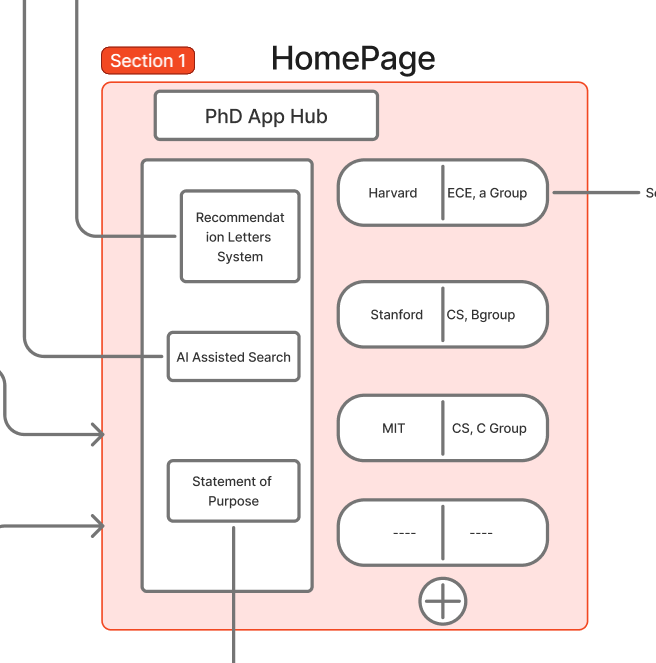
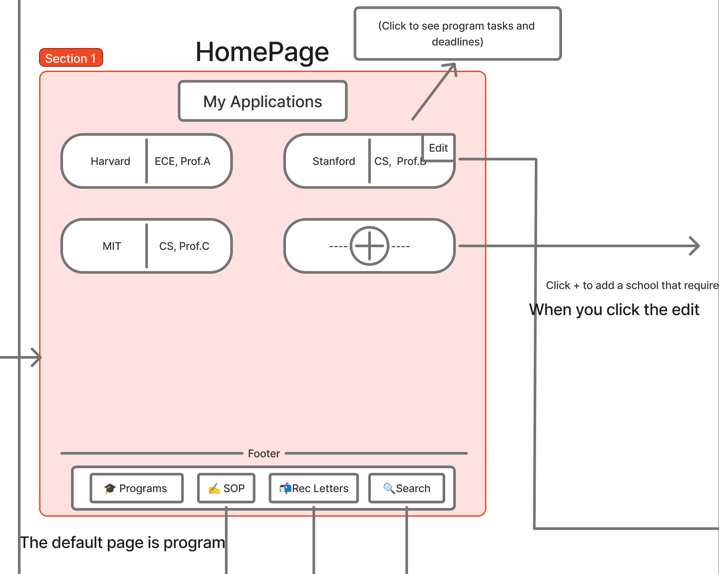
The mockup modify, to meet all the requiremnts in slack

diff --git a/README.md b/README.md
@@ -5,7 +5,7 @@ CSCI 5117, Fall 2025, [assignment description](https://canvas.umn.edu/courses/51
 ## App Info:
 
 * Team Name: http-200
-* App Name: 
+* App Name: PhDHub
 * App Link: <https://TODO.com/>
 
 ### Students
@@ -38,29 +38,109 @@ Which (if any) progressive web app feature(s) does your app support?
 <img src="Mock-ups/Mockup.png" alt="Overall Mockup" width="800"/>
 *Complete PhD application management system design overview, integrating all application components and information aggregation features*
 
+
+
+### Splash Page
+
+<img src="Mock-ups/Log.png" alt="Log" width="800"/>
+*Application timeline and activity log tracking all PhD application progress, deadlines, submissions, and important milestones*
+
+Added a simple splash / landing screen before Login/Setup
+
+-  Gives users a clearer starting point
+-  Makes the flow feel more intentional
+
+
+
 ### Home Page
+
 <img src="Mock-ups/HomePage.png" alt="Home Page" width="800"/>
 *Dashboard showing application overview, pending tasks, and quick access to all PhD application management features*
+
+-  Cleaned up the layout so it feels more organized
+-  Replaced the old left-side column with a footer navigation bar
+   -  Helps users understand how to move between pages
+-  Added small labels so the purpose of each button is clearer
+
+
+
+### Program Information
+
+<img src="Mock-ups/Program_info.png" alt="Program Info" width="800"/>
+*PhD program information aggregator displaying detailed program requirements, deadlines, faculty research areas, and application checklist*
+
+- Broke the page into a clear three-step workflow
+
+  -  Choose school (with auto-suggestion)
+  -  Choose professor (with fallback if not in database)
+  -  Add TODO list
+
+- Redesigned the TODO list so it actually looks like a list of tasks
+
+- Added clear form fields for adding new TODO items
+
+- Added explanations for task frequency and reminder logic
+
+  
 
 ### Statement of Purpose (SOP)
 <img src="Mock-ups/SOP.png" alt="SOP" width="800"/>
 *SOP management interface for creating, editing, and organizing multiple versions of personal statements for different PhD programs*
 
+- Added labels showing how users select, edit, and compare SOP drafts
+
+- Clarified what each SOP block represents (draft, version, or reference)
+
+- Improved the editor area so the interaction is easier to understand
+
+
+
 ### Recommendation Letter
+
 <img src="Mock-ups/Recommendation Letter.png" alt="Recommendation Letter" width="800"/>
 *Recommendation letter tracker for managing requests, tracking submission status, and organizing letters by program and recommender*
 
-### Program Information
-<img src="Mock-ups/Program_info.png" alt="Program Info" width="800"/>
-*PhD program information aggregator displaying detailed program requirements, deadlines, faculty research areas, and application checklist*
+
 
 ### AI Assisted Features
+
 <img src="Mock-ups/AI Assisted.png" alt="AI Assisted" width="800"/>
 *AI-powered writing assistant for generating, refining, and optimizing SOP drafts, recommendation letter requests, and other application materials*
 
-### Activity Log
-<img src="Mock-ups/Log.png" alt="Log" width="800"/>
-*Application timeline and activity log tracking all PhD application progress, deadlines, submissions, and important milestones*
+Left the structure as-is since this part was already clear
+
+
+
+# Revised Mockup Feedback Response (QA Format)
+
+**Q1:** Why does the site go straight to the login/setup page with no splash page?  
+**A1:** We've already added a splash page before login, so that issue has been resolved.
+
+***
+
+**Q2:** The home page layout feels scattered, the left column is unclear, and the two-column design will break on mobile. How will this be addressed?  
+**A2:** Our original left-hand column represented various functions. To prevent display issues on mobile devices, we plan to move all function modules to the bottom, so this has been resolved according to your requirements.
+
+***
+
+**Q3:** The Statement of Purpose (SOP) section is completely unclear — how is the user supposed to interact with it?  
+**A3:** Users can select SOPs they want to see using filters, and then the right side is an editing block that su
+
+***
+
+**Q4:** On the program detail page, what happens if the professor doesn’t exist in the database? Is there a fallback plan?  
+**A4:** Our professor information comes entirely from thousands of professors provided by CSranking. This open-source dataset is maintained by many people and is updated almost monthly. New professors are usually included in the statistics. If a professor is not listed, we will manually add them, but this issue rarely occurs, and users can choose other professors.
+
+***
+
+**Q5:** The TODO list currently looks like plain text blocks with no indication it’s interactive. How do users add, edit, or complete tasks?  
+**A5:** We've now modified the format of the Todo List block, so users can easily edit it by clicking on it.
+
+***
+
+**Q6:** In the recommendation letter section, after entering a professor’s email, does the system automatically send a request, or is it just manual tracking? The flow is unclear.  
+
+**A6:** The system will automatically send email reminders to professors. Once professors have filled out the form, they can directly use this system to inform applicants that they have completed the form, instead of repeatedly sending emails to applicants. Applicants can clearly see which schools the professor has filled out and which schools are still missing.
 
 
 ## Testing Notes
